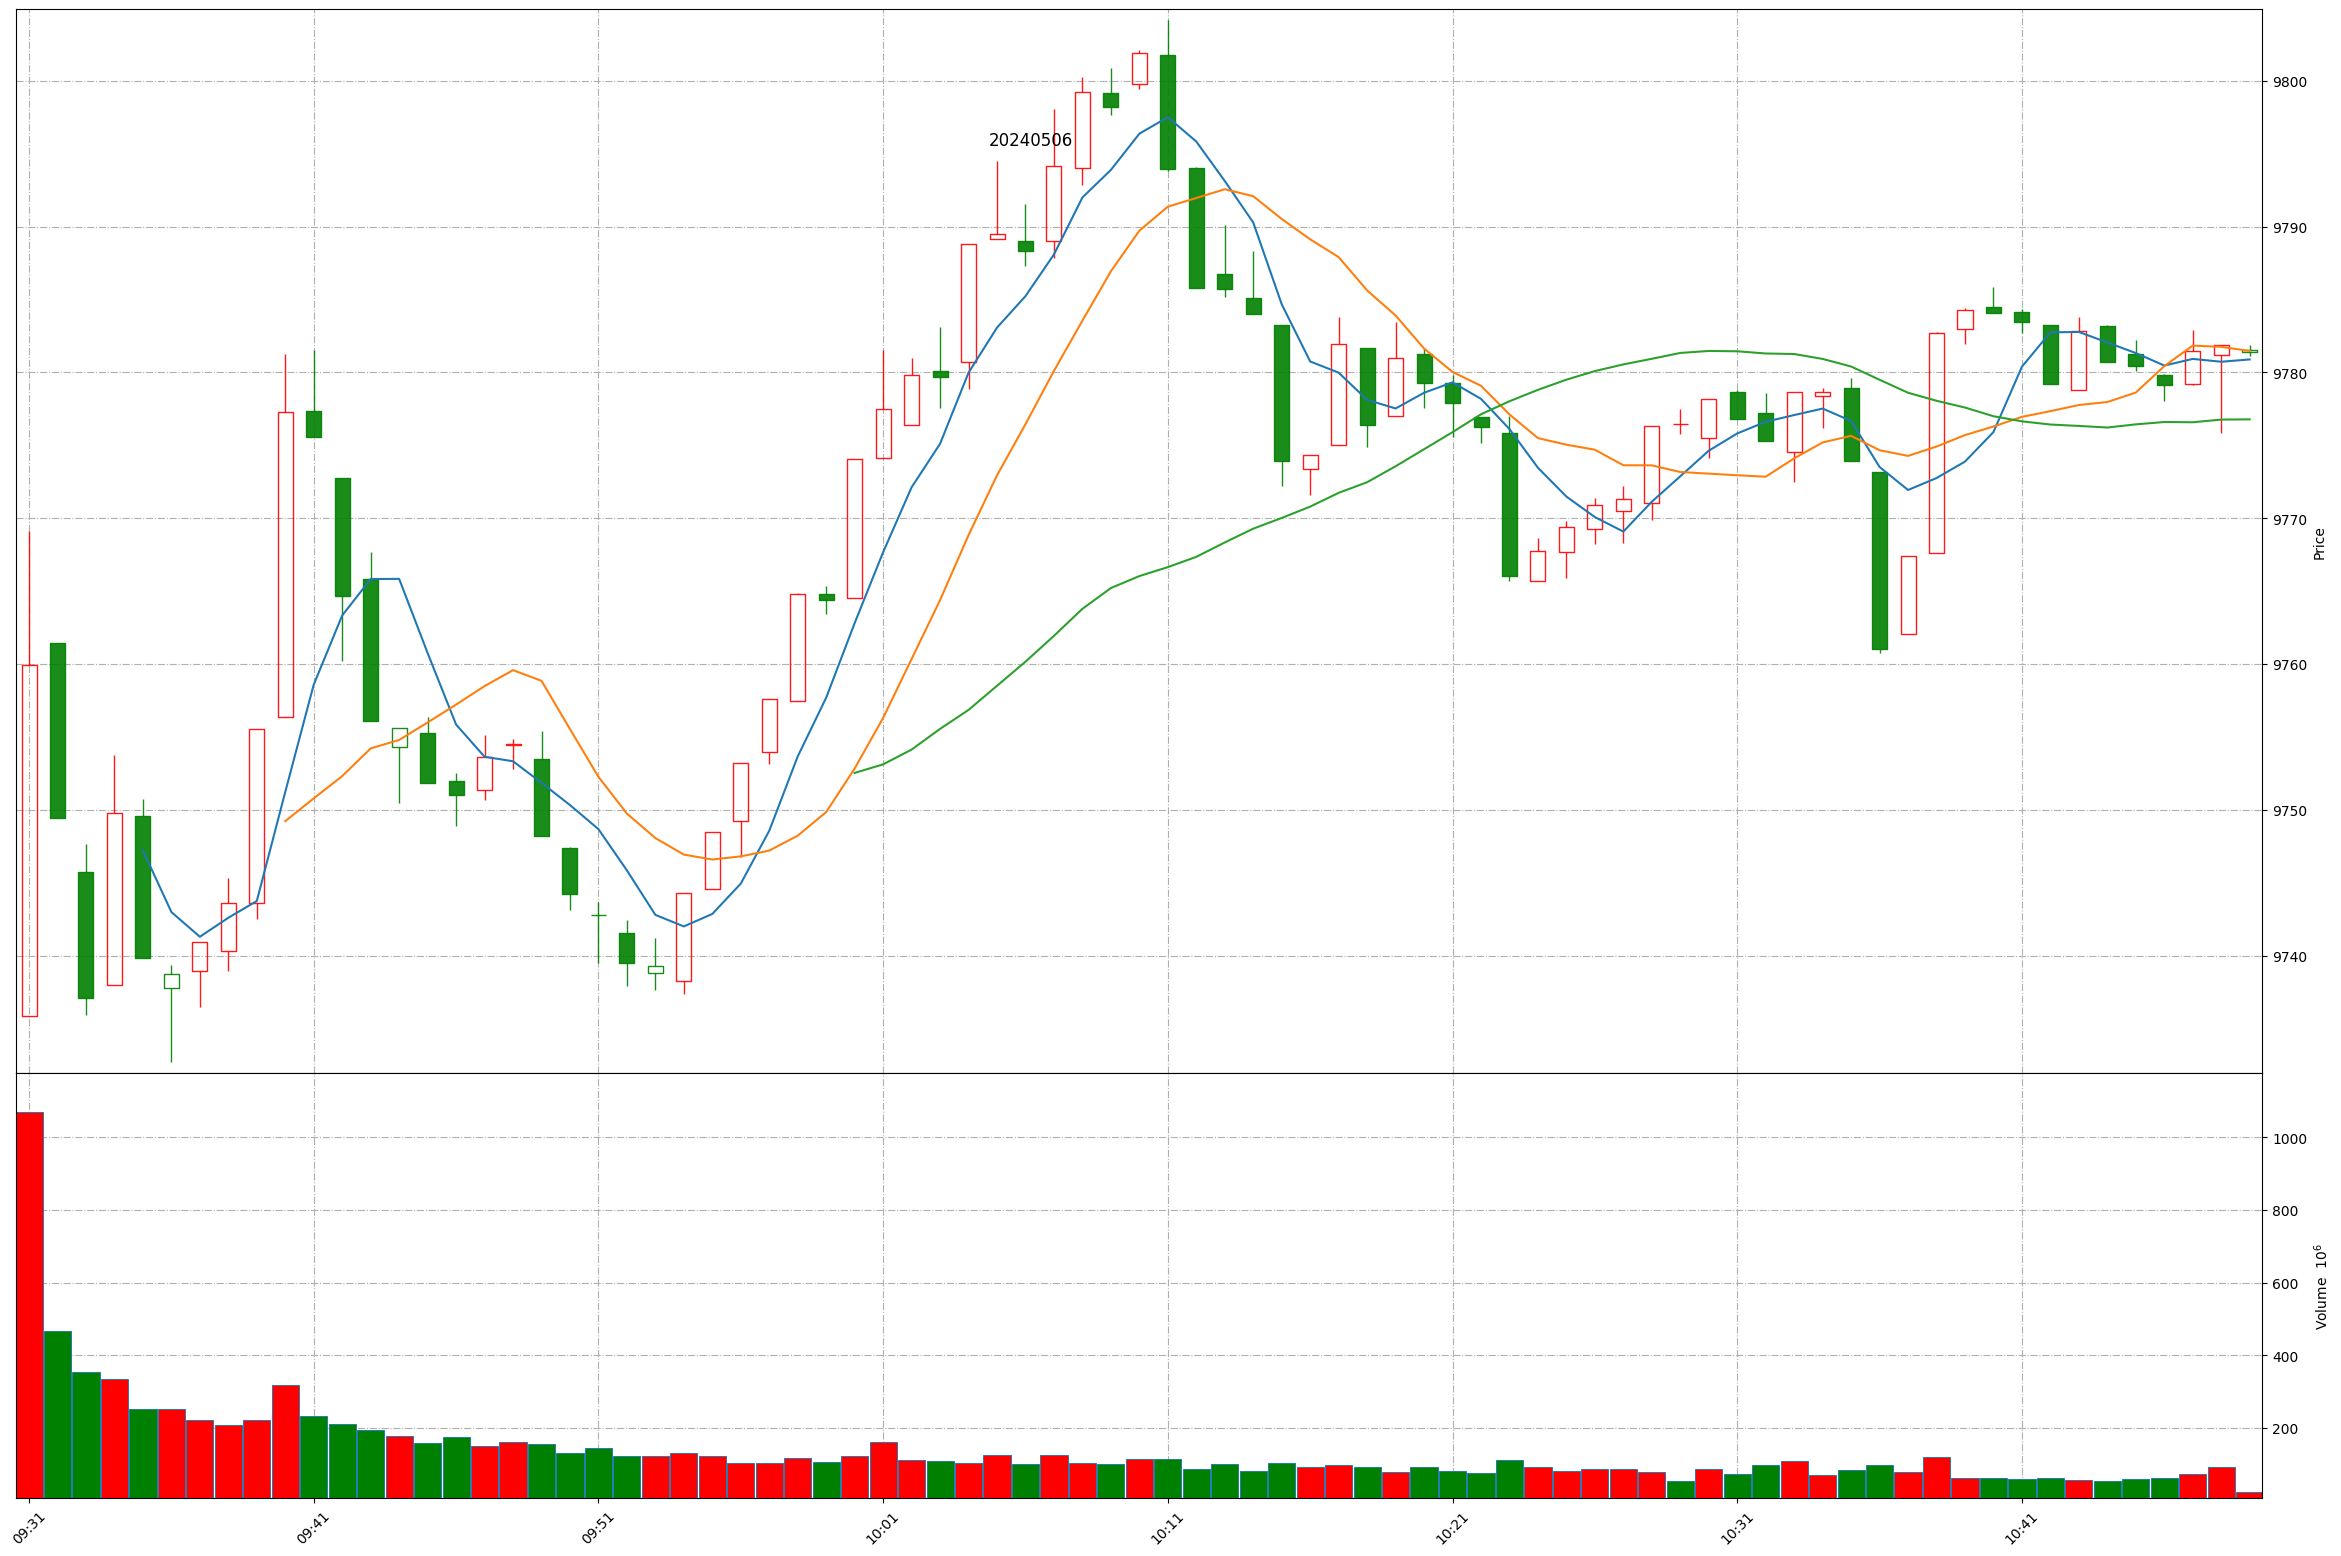
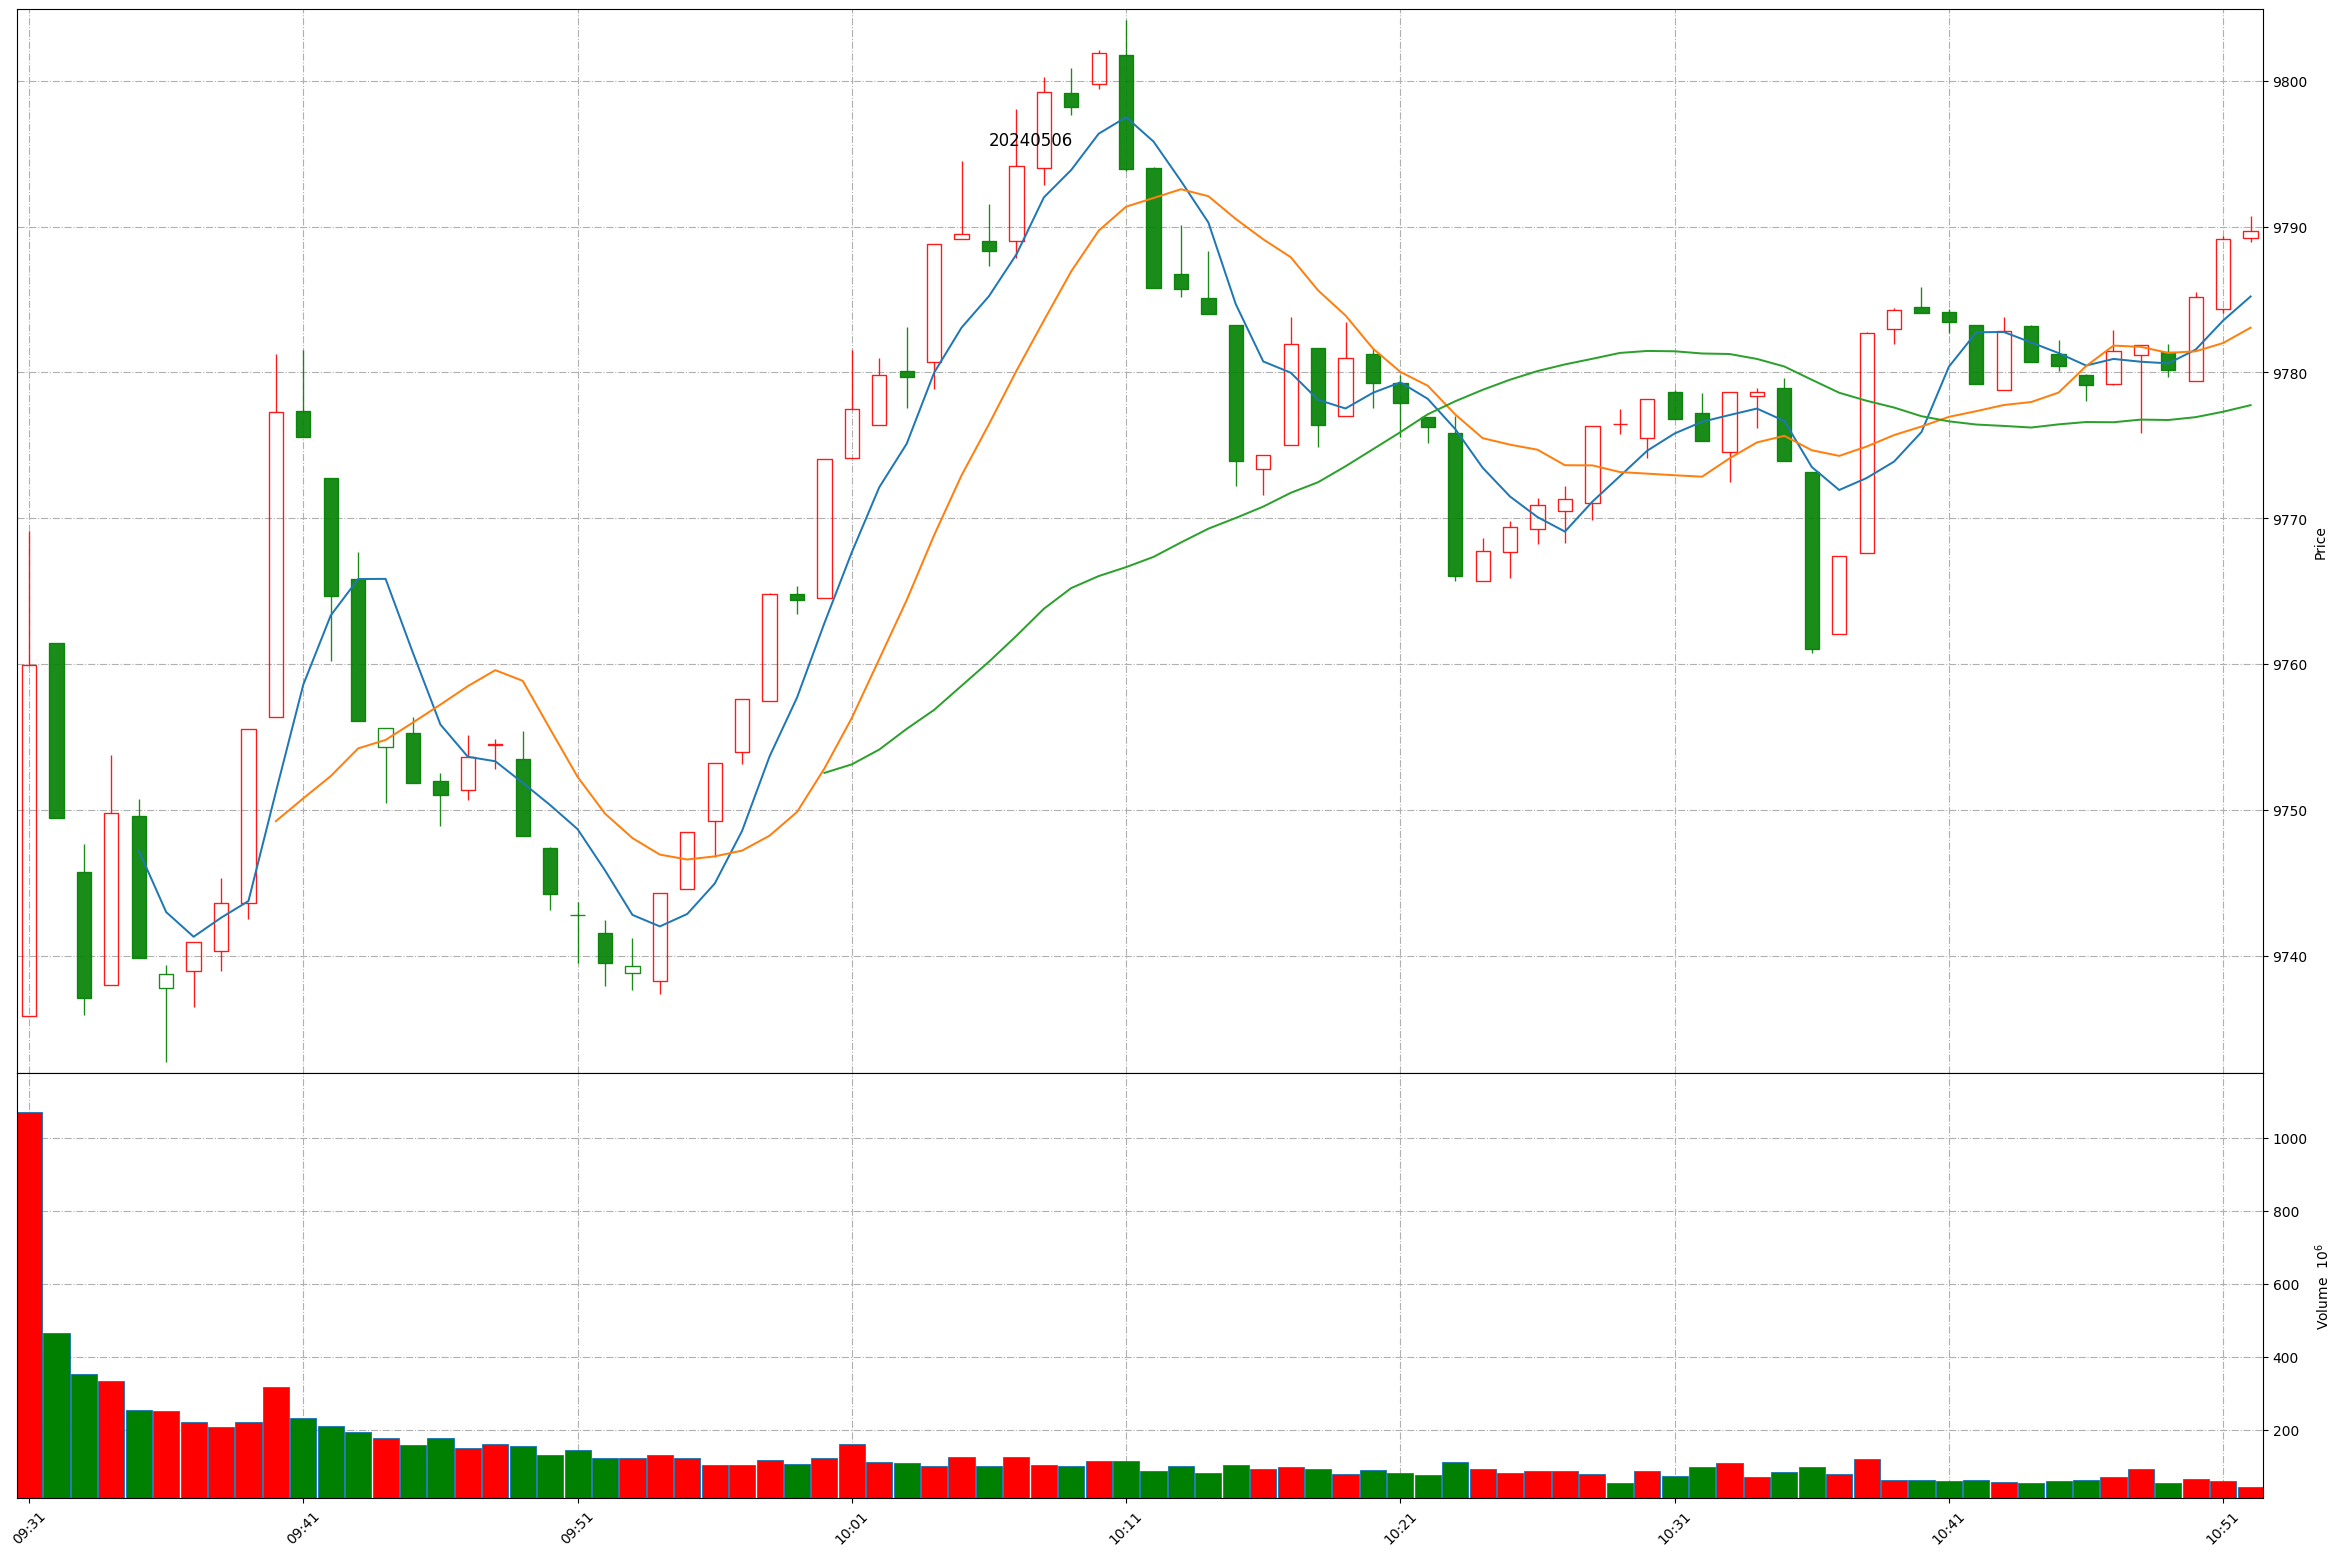
Github action update at 2024-05-06 10:52:10.

diff --git a/README.md b/README.md
@@ -1,11 +1,11 @@
 
 # Daily-A-share-market-quotes 每日 A 股指数（5min 更新）- 20240506
 
-### 上证指数 20240506 10:48
+### 上证指数 20240506 10:52
 ![](./fig/2024/5/20240506-sh000001.png)
 
-### 深证成指 20240506 10:48
+### 深证成指 20240506 10:52
 ![](./fig/2024/5/20240506-sz399001.png)
 
-### 北证50 20240506 10:48
+### 北证50 20240506 10:52
 ![](./fig/2024/5/20240506-bj899050.png)
